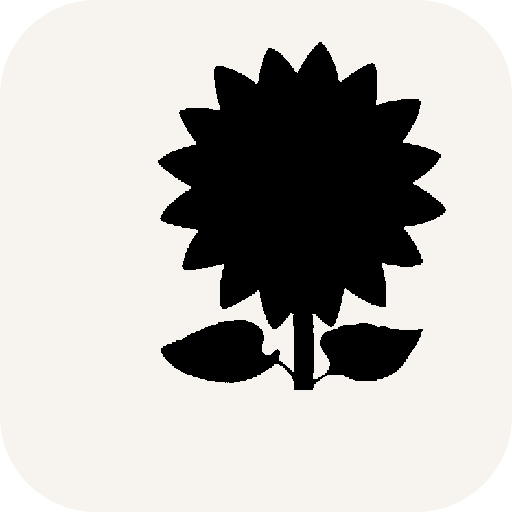
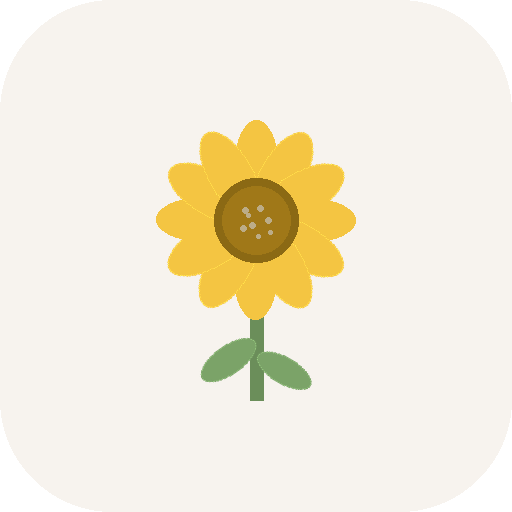
fix: 홈화면 아이콘을 컬러 해바라기로 교체
- 이모지 텍스트 기반 SVG에서 실제 벡터 그래픽으로 변경
- PNG 아이콘(192/512/180) 컬러로 재생성
- apple-touch-icon을 SVG→PNG로 변경하여 iOS 호환성 확보

Changed region(s): [[0.2812, 0.0938, 0.875, 0.7812]]

diff --git a/index.html b/index.html
@@ -32,7 +32,7 @@
   </script>
[1 lines of base64/hex data omitted]
   <link rel="manifest" href="manifest.json">
-  <link rel="apple-touch-icon" href="icons/icon.svg">
+  <link rel="apple-touch-icon" sizes="180x180" href="icons/apple-touch-icon.png">
   <meta charset="UTF-8">
   <meta name="viewport" content="width=device-width, initial-scale=1.0">
   <title>BeInside — 육아·정신건강·감정 돌봄 가이드</title>
